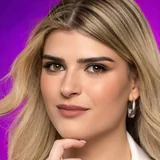
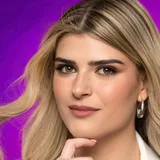
התמונה של מאיה בצ'אט: 24px והפנים במרכז העיגול, sw v144

diff --git a/css/style.css b/css/style.css
@@ -1422,9 +1422,10 @@ h1, h2, h3 {
 
 .chat-avatar {
   flex-shrink: 0;
-  /* 04/11/2026 (מאיה: "את התמונה שלי בצ'אט אפשר להפוך לקצת יותר קטנה?") */
-  width: 28px;
-  height: 28px;
+  /* 04/11/2026 (מאיה: "את התמונה שלי בצ'אט אפשר להפוך לקצת יותר קטנה?",
+     ואחר כך "יותר קטנה וממורכזת"): 24px, והחיתוך בקובץ ממרכז את הפנים */
+  width: 24px;
+  height: 24px;
   border-radius: 50%;
   object-fit: cover;
   background: var(--accent);

diff --git a/sw.js b/sw.js
@@ -1,5 +1,5 @@
 // שינוי כאן גורם לכל מי שפתוחה על גרסה ישנה לקבל את הודעת "גרסה חדשה מוכנה" (18/09: הכנסת update-check.js)
-const CACHE_NAME = 'moach-hashiveki-v143';
+const CACHE_NAME = 'moach-hashiveki-v144';
 const APP_SHELL = ['./', './index.html', './css/style.css', './js/app.js', './manifest.json', './assets/favicon.png'];
 
 self.addEventListener('install', (event) => {

diff --git a/js/chat-ui.js b/js/chat-ui.js
@@ -38,8 +38,8 @@ function chatAvatar() {
   avatar.src = AVATAR_SRC;
   avatar.srcset = AVATAR_SRCSET;
   avatar.alt = '';
-  avatar.width = 28;
-  avatar.height = 28;
+  avatar.width = 24;
+  avatar.height = 24;
   avatar.decoding = 'async';
   return avatar;
 }
